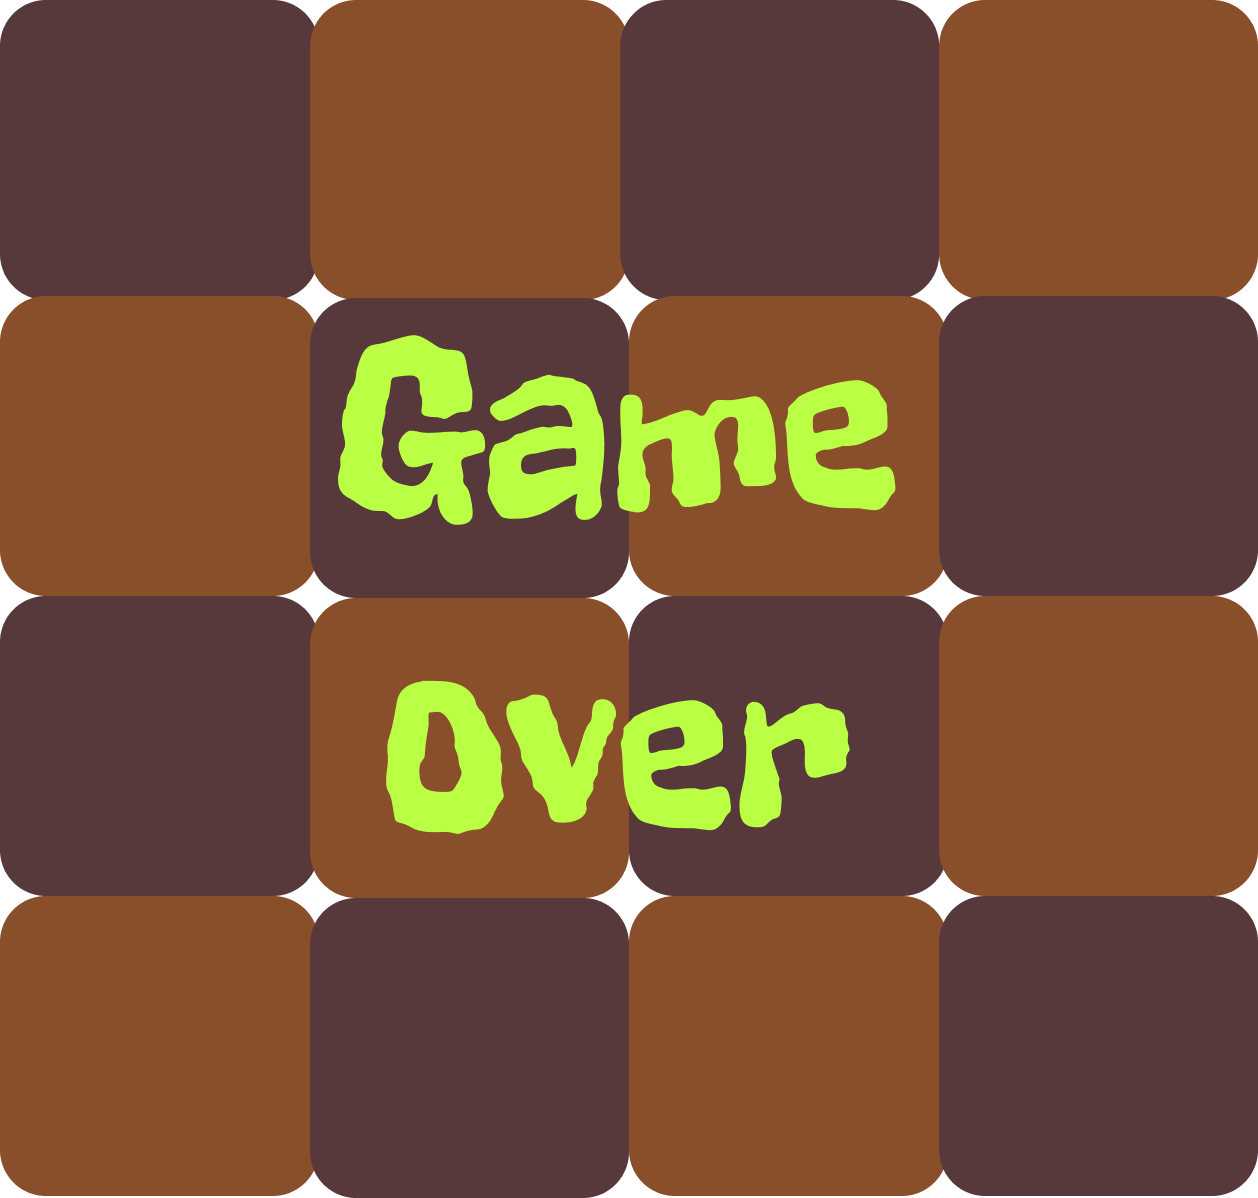
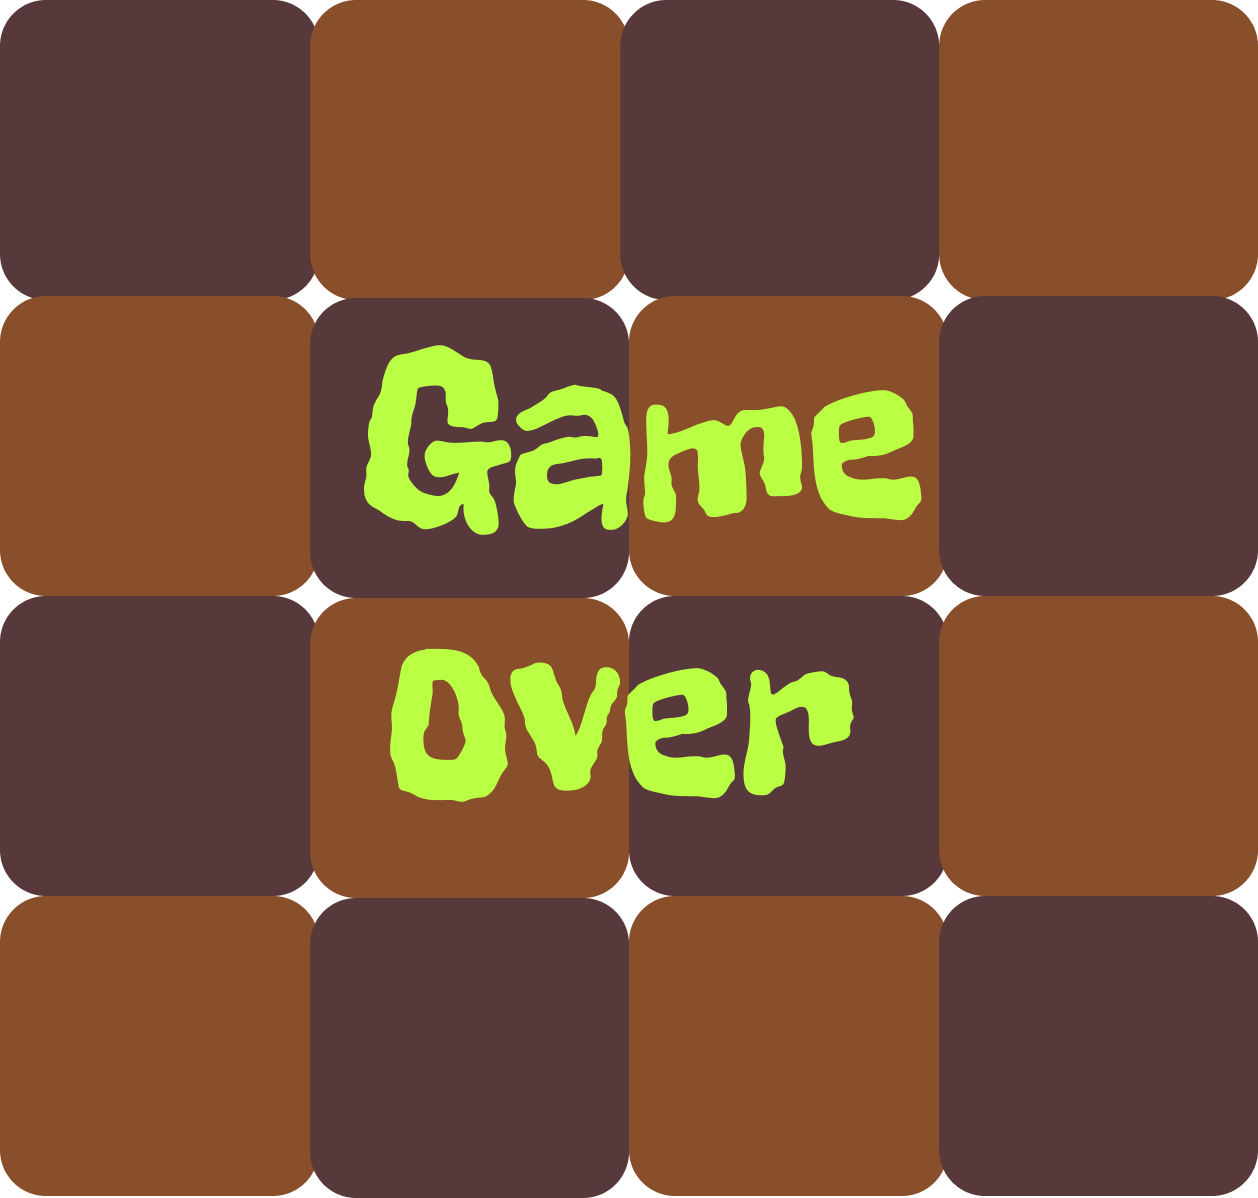
Updated game over page

Changed region(s): [[0.248, 0.278, 0.744, 0.4633], [0.31, 0.525, 0.682, 0.7104]]

diff --git a/src/components/Game/game_over.jsx b/src/components/Game/game_over.jsx
@@ -1,18 +1,22 @@
 import React, { useState } from "react";
 import { Link } from "react-router-dom";
-import titleImage from "../../assets/game_over.png";
-import styles from "./game_over.css";
-
+import gameOverImage from "../../assets/game_over.png";
+import "./game_over.css"
 const GameOverComponent = () => {
   return (
-    <div className={styles.container}>
-      <img src={titleImage} alt="Game Over" className={styles.titleImage} />
+    <section className="game-over">
+      <img src={gameOverImage} alt="Game Over" className="gameOverImage" />
+      <Link to="/startgame" style={{ textDecoration: "none" }}>
+        <button className="playAgainButton">
+          Play <span>Again</span>
+        </button>
+      </Link>
       <Link to="/" style={{ textDecoration: "none" }}>
-        <button className={styles.homeButton}>
+        <button className="homeButton">
           Go back to <span>Home</span>
         </button>
       </Link>
-    </div>
+    </section>
   );
 };
 

diff --git a/src/components/Game/game_over.css b/src/components/Game/game_over.css
@@ -1,4 +1,4 @@
-.container {
+.game-over {
   background-image: url("../../assets/game_bg.png") !important;
   background-size: 100% auto;
   background-repeat: no-repeat;
@@ -12,16 +12,30 @@
   position: relative;
 }
 
-.titleImage {
-  width: 30%;
+.gameOverImage {
+  max-width: 400px;
+  max-height: 400px;
   height: auto;
   margin-bottom: 10px;
   margin-top: -50px;
 }
 
+.playAgainButton {
+  font-size: 20px;
+  margin-top: 20px;
+  cursor: pointer;
+  background: #57383B;
+  border: 5px solid greenyellow;
+  color: white;
+  border-radius: 20px;
+  font-weight: bold;
+  width: auto;
+  display: block;
+}
+
 .homeButton {
   font-size: 20px;
-  margin-top: 0;
+  margin-top: 20px;
   cursor: pointer;
   background: #57383B;
   border: 5px solid greenyellow;
